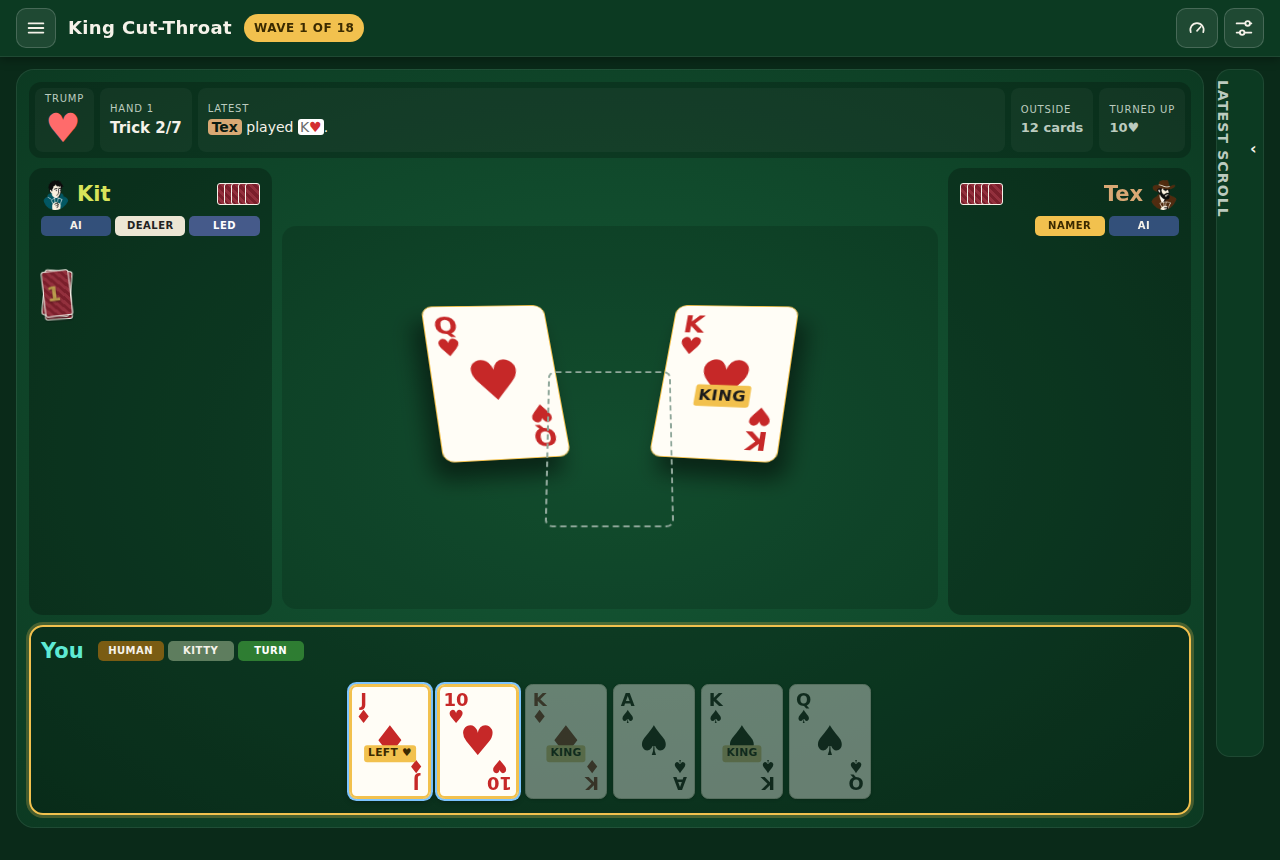
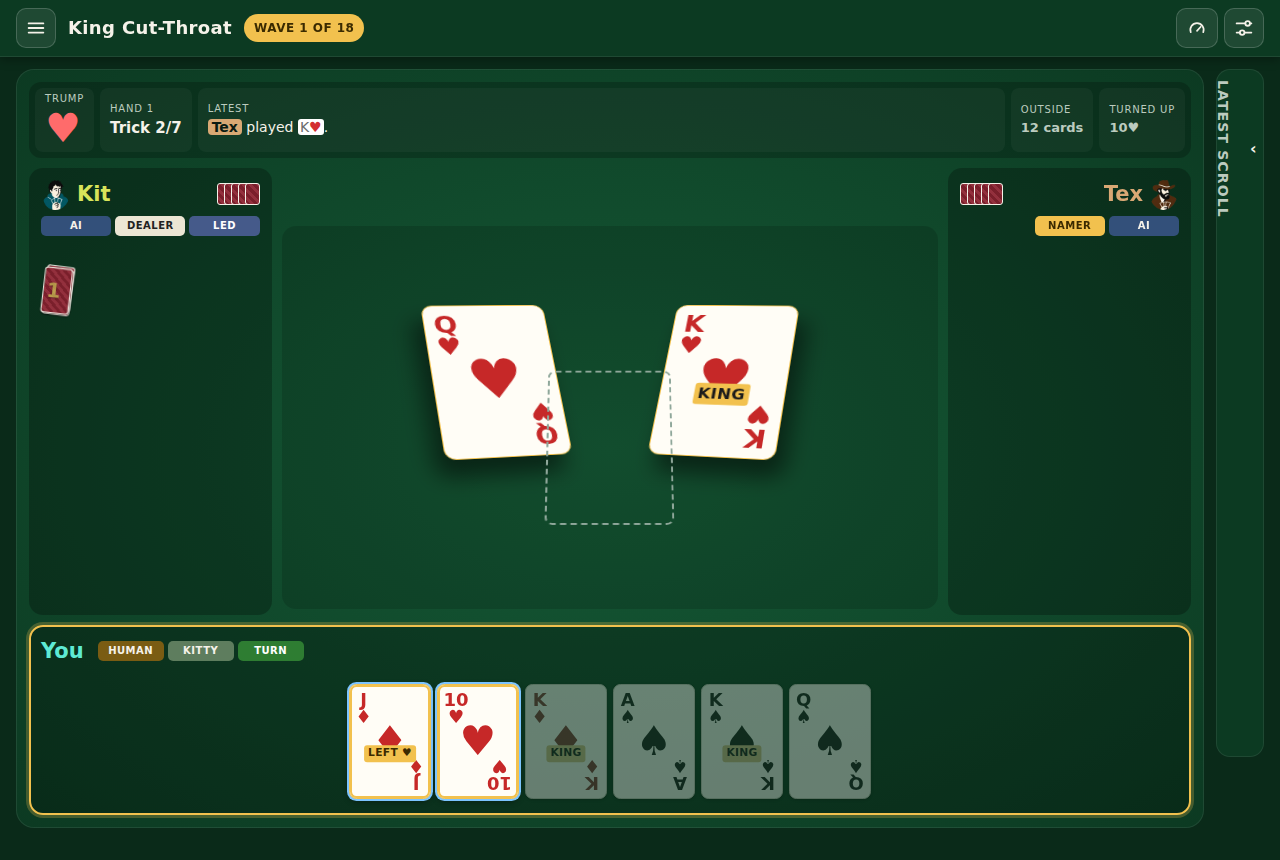
Tighten the kitty overlap
Each kitty card now shows 45% of the card before it.

Claude-Session: https://claude.ai/code/session_01QkpazkapUFZWg4SWZB1dDA

diff --git a/mockups/advanced.js b/mockups/advanced.js
@@ -124,7 +124,7 @@ const css = `
 .kitty-spot{display:flex;flex-direction:column;align-items:center;justify-content:center;gap:14px;min-height:calc(var(--cw)*3.3)}
 .kitty-spot .piles-row{display:flex;align-items:center;justify-content:center;gap:calc(var(--kw)*.5)}
 .kitty-spot{--kw:var(--cw)}
-.kpile{position:relative;width:calc(var(--kw)*(1 + 2 * .73));height:calc(var(--kw)*1.4)}
+.kpile{position:relative;width:calc(var(--kw)*(1 + 2 * .45));height:calc(var(--kw)*1.4)}
 .kpile .card{position:absolute;top:0;--w:var(--kw);box-shadow:0 2px 5px rgba(0,0,0,.45);transform-origin:50% 90%}
 .kpile .card .cat{position:absolute;left:15%;top:10%;width:70%;height:80%;fill:#000;opacity:.5}
 .pile-act{display:flex;gap:8px}.pile-act .btn{font-size:15px;padding:8px 18px}
@@ -219,14 +219,14 @@ for (const sl of $$('.trick .slot')) if (!sl.style.zIndex) sl.style.zIndex = Str
 log.scrollTop = 0;
 
 // Kitty in the middle of the table before the first trick: spread flat and overlapping like the bots' hand backs
-// (each card covers about a quarter of the one before), so its few cards can be counted. Until the
+// (each card covers more than half of the one before), so its few cards can be counted. Until the
 // turn-up, the top card carries a black cat silhouette at 50% opacity.
 const CAT = '<svg class="cat" viewBox="0 0 64 80" aria-hidden="true"><path d="M20 6l5 9c2-.6 4-.9 6-.9s4 .3 6 .9l5-9 2 13c2 3 3 6 3 9 0 5-2 9-6 12 6 5 10 13 10 22 0 6-1 10-3 13h6c4 0 6-2 6-5s-2-4-4-4c-2 0-3 1-3 3h-3c0-4 3-6 6-6 5 0 7 3 7 7 0 5-4 8-9 8H17c-3 0-5-2-5-4s1-4 3-5c-2-4-3-8-3-13 0-9 4-17 10-22-4-3-6-7-6-12 0-3 1-6 3-9z"/></svg>';
 const kitty = $$('.center .piles .pile').find(p => /Kitty/.test(p.textContent));
 if (kitty && !$('.center .trick')) {
   const cards = $$('.pile-cards .card', kitty).reverse(), top = cards.length - 1;
   $('.center .piles').insertAdjacentHTML('afterend', '<div class="kitty-spot"><div class="piles-row"><div class="kpile" aria-label="Kitty: ' + cards.length + ' cards">' +
-    cards.map((c, i) => c.outerHTML.replace('class="card', 'style="left:calc(' + i + ' * var(--kw) * .73)" class="card')
+    cards.map((c, i) => c.outerHTML.replace('class="card', 'style="left:calc(' + i + ' * var(--kw) * .45)" class="card')
       .replace(/<\/div>$/, i === top && /\bback\b/.test(c.className) ? CAT + '</div>' : '</div>')).join('') + '</div></div></div>');
 }
 // Discard phase: the outside pile is a neat squared stack in the kitty's spot (the kitty shows from the bids on), its count on the top card in transparent
